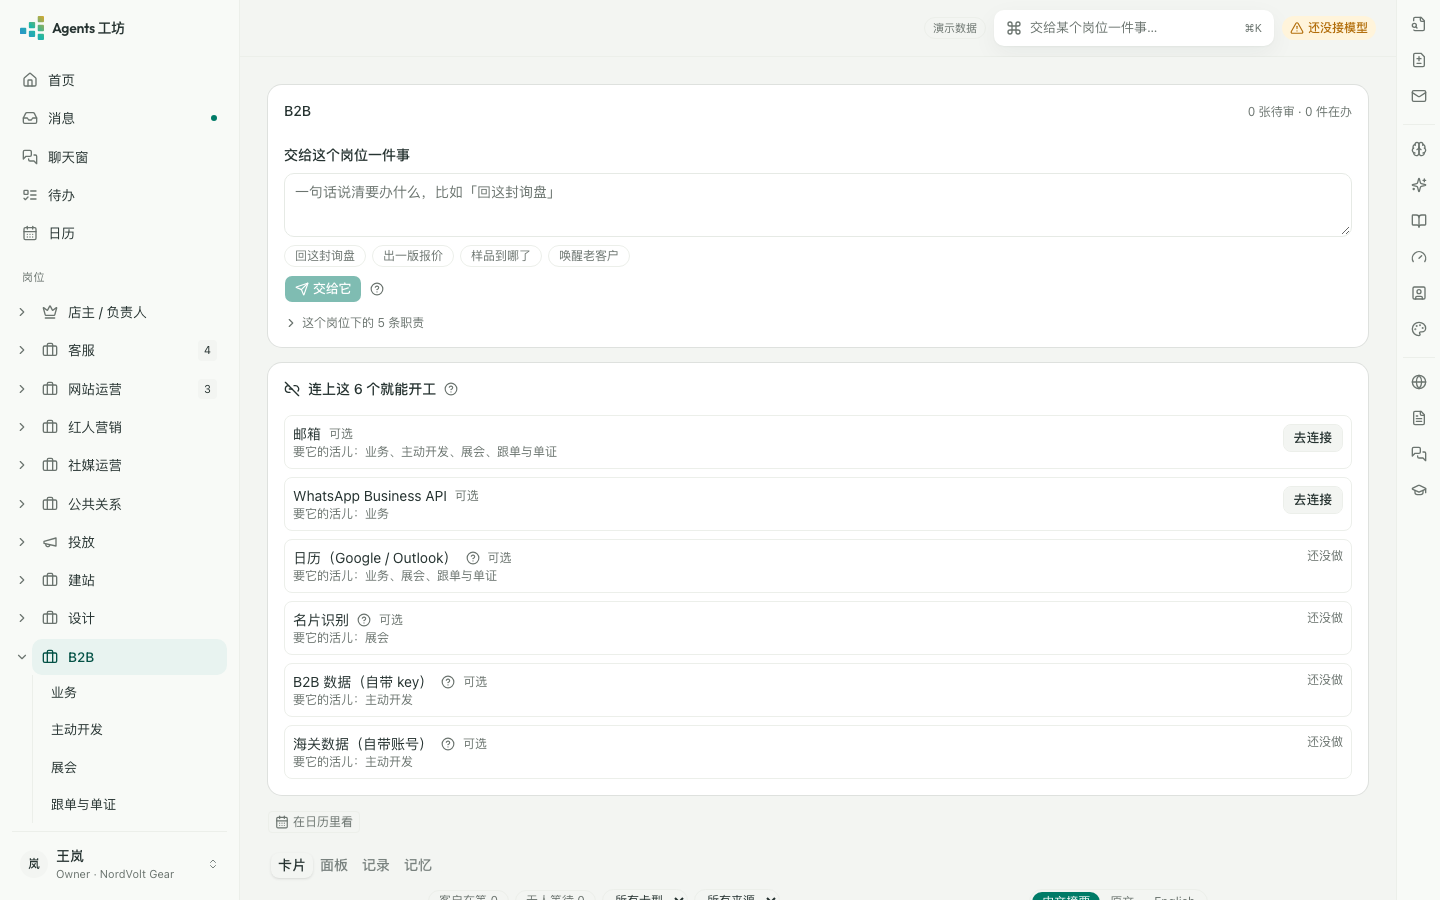
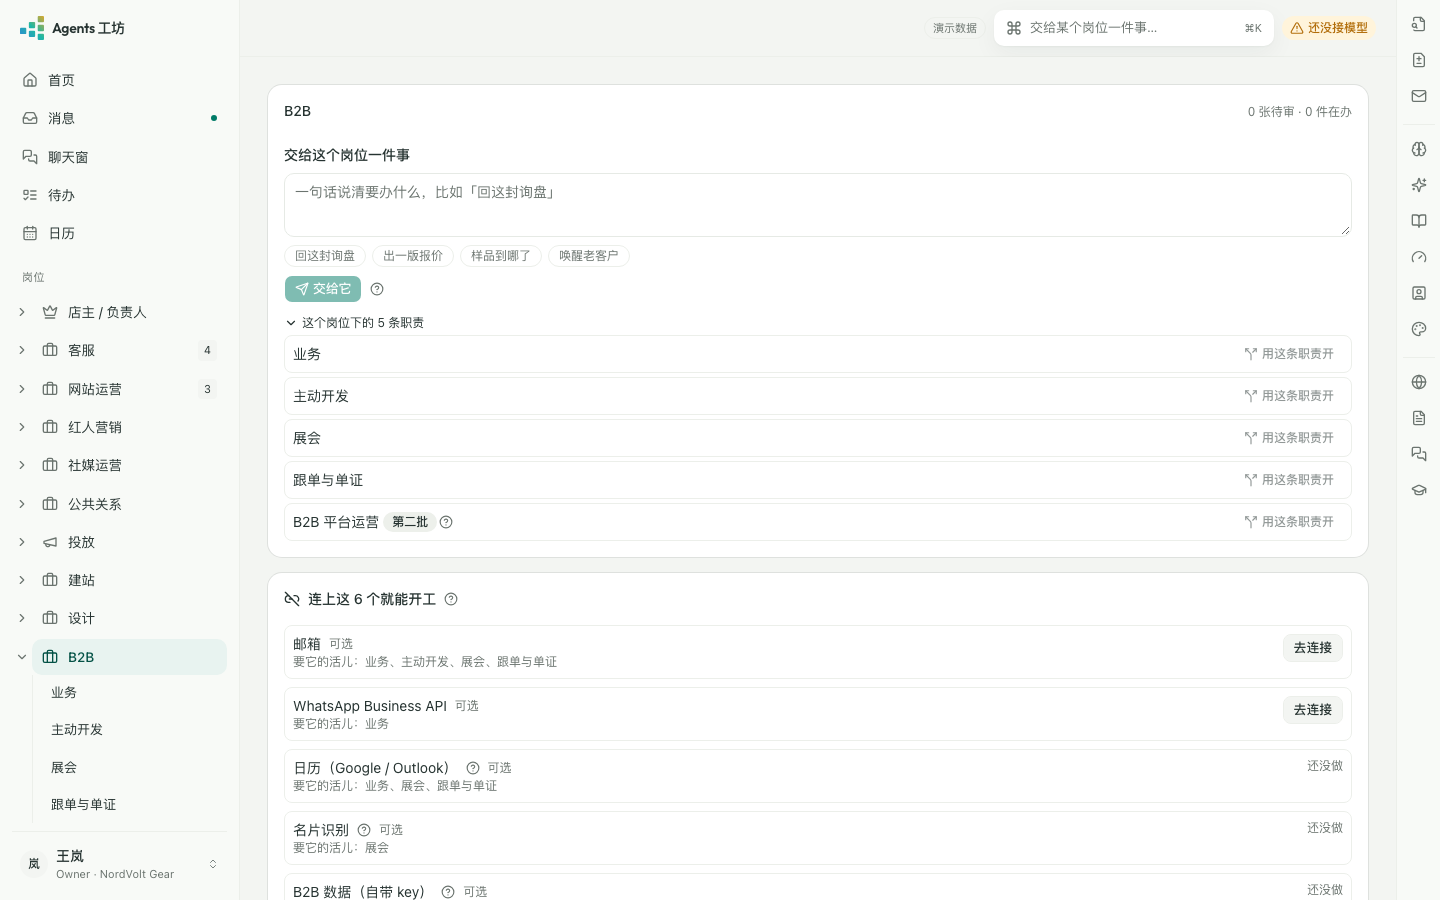
fix(onboarding): WP171 终审——勾岗位不带上第二批的职责，要单独勾（归在那个岗位下）
「仍默认不勾」落到实处：勾「B2B」岗位 = 前四条；平台运营（status: planned）只有单独勾了
才进清单，而且归在 B2B 岗位下、不另起自定义岗位。服务端 expandRoles / 清单与工作台
expandPick 同一条规矩；岗位勾着时第二批那条仍能单独勾。两边各补用例。

diff --git a/apps/workstation/test/onboarding.test.tsx b/apps/workstation/test/onboarding.test.tsx
@@ -33,7 +33,7 @@ import {
 } from '@/components/onboarding/preset-roles'
 import { ProfileForm } from '@/components/onboarding/profile-form'
 import { PurposePicker } from '@/components/onboarding/purpose-picker'
-import { RolePicker } from '@/components/onboarding/role-picker'
+import { expandPick, RolePicker } from '@/components/onboarding/role-picker'
 import type {
   BrandIntakeRun,
   CapabilitySourceSettings,
@@ -1707,13 +1707,11 @@ describe('WP171 第 ③ 步多问一项「B2B」', () => {
 
   it('第二批的职责标「第二批」，说明进问号；仍默认不勾', async () => {
     const user = userEvent.setup()
-    renderWithProviders(
-      <RolePicker
-        positions={WITH_B2B}
-        value={{ position_ids: ['b2b'], role_ids: [], custom_position_name: '' }}
-        onChange={() => {}}
-      />,
-    )
+    const onChange = vi.fn()
+    const picked = { position_ids: ['b2b'], role_ids: [], custom_position_name: '' }
+    // 勾岗位不带上第二批那条（与服务端 expandRoles 同一条规矩）
+    expect(expandPick(picked, WITH_B2B)).toEqual(['b2b.sales', 'b2b.outbound'])
+    renderWithProviders(<RolePicker positions={WITH_B2B} value={picked} onChange={onChange} />)
     const expands = screen.getAllByTestId('onboarding-expand')
     // 岗位按出场顺序摆，B2B 是最后一个
     await user.click(expands[expands.length - 1] as HTMLElement)
@@ -1724,6 +1722,17 @@ describe('WP171 第 ③ 步多问一项「B2B」', () => {
       '第一版还不做',
     )
     expect(WITH_B2B.find((p) => p.id === 'b2b')?.roles.find((r) => r.planned)?.default).toBe(false)
+    // 岗位勾着时别的职责点不动，第二批那条能单独勾（归到这个岗位下，不另起自定义岗位）
+    const toggles = screen.getAllByTestId('onboarding-role')
+    const planned = toggles.find((b) => b.textContent === 'B2B 平台运营') as HTMLElement
+    expect(planned.getAttribute('aria-pressed')).toBe('false')
+    expect(toggles.find((b) => b.textContent === '业务')?.hasAttribute('disabled')).toBe(true)
+    await user.click(planned)
+    expect(onChange).toHaveBeenLastCalledWith({ ...picked, role_ids: ['b2b.marketplace'] })
+    expect(expandPick({ ...picked, role_ids: ['b2b.marketplace'] }, WITH_B2B)).toContain(
+      'b2b.marketplace',
+    )
+    expect(screen.queryByTestId('onboarding-custom')).toBeNull()
   })
 })
 

diff --git a/apps/server/src/onboarding.ts b/apps/server/src/onboarding.ts
@@ -535,6 +535,21 @@ export function createOnboarding(options: OnboardingOptions): OnboardingAssembly
     return kept.length === 0 ? [...roles] : kept
   }
 
+  /**
+   * WP171（Fable 终审）：**勾岗位不带上第二批的职责**（职责定义 `status: planned`）。
+   * 它们在向导里照样列出来（标「第二批」），用户单独勾了才进清单，而且归到那个岗位下，
+   * 不另起一个"自定义岗位"。
+   */
+  function isPlannedRole(id: RoleId): boolean {
+    return roles.roles.get(id)?.status === 'planned'
+  }
+  function tickedRoles<T extends { role: RoleId }>(
+    list: readonly T[],
+    explicit: readonly RoleId[],
+  ): T[] {
+    return wizardRoles(list).filter((r) => !isPlannedRole(r.role) || explicit.includes(r.role))
+  }
+
   function expandRoles(input: OnboardingPlanInput, positions: PositionLike[]): RoleId[] {
     const out: RoleId[] = []
     const seen = new Set<RoleId>()
@@ -548,7 +563,7 @@ export function createOnboarding(options: OnboardingOptions): OnboardingAssembly
     for (const id of input.position_ids) {
       const position = positions.find((p) => p.id === id)
       if (position === undefined) throw new OnboardingError('not_found', `没有这个岗位：${id}`)
-      for (const r of wizardRoles(position.roles)) push(r.role)
+      for (const r of tickedRoles(position.roles, input.role_ids)) push(r.role)
     }
     for (const id of input.role_ids) push(id)
     return out
@@ -623,7 +638,7 @@ export function createOnboarding(options: OnboardingOptions): OnboardingAssembly
     const held = new Set(activeOf(options.owner).map((a) => a.role_id))
     const plannedPositions: OnboardingPositionPlanItem[] = input.position_ids.map((id) => {
       const position = positions.find((p) => p.id === id)
-      const ids = wizardRoles(position?.roles ?? [])
+      const ids = tickedRoles(position?.roles ?? [], input.role_ids)
         .map((r) => r.role)
         .filter((r) => roles.roles.get(r) !== undefined)
       return {

diff --git a/apps/server/test/onboarding.test.ts b/apps/server/test/onboarding.test.ts
@@ -434,6 +434,28 @@ describe('46 §3 岗位与职责 → 清单', () => {
     // 别的岗位一条都不带这个标记
     const others = positions.filter((p) => p.id !== 'b2b').flatMap((p) => p.roles)
     expect(others.some((r) => r.planned === true)).toBe(false)
+
+    // Fable 终审：勾「B2B」岗位不带上第二批那条
+    const plan = await data<
+      PlanView & { positions: { position_id: string; role_ids: string[] }[] }
+    >(await m.call('POST', '/v1/onboarding/plan', { body: { position_ids: ['b2b'] } }))
+    expect(plan.role_ids).toEqual([
+      'b2b.sales',
+      'b2b.outbound',
+      'b2b.exhibition',
+      'b2b.fulfillment',
+    ])
+    // 单独勾了才进，而且归在 B2B 岗位下，不另起一个自定义岗位
+    const withPlanned = await data<
+      PlanView & { positions: { position_id: string; role_ids: string[] }[] }
+    >(
+      await m.call('POST', '/v1/onboarding/plan', {
+        body: { position_ids: ['b2b'], role_ids: ['b2b.marketplace'] },
+      }),
+    )
+    expect(withPlanned.role_ids).toContain('b2b.marketplace')
+    expect(withPlanned.positions.map((p) => p.position_id)).toEqual(['b2b'])
+    expect(withPlanned.positions[0]?.role_ids).toContain('b2b.marketplace')
   })
 
   it('勾岗位 = 该岗位职责全勾；连接与技能去重汇总；模型没接时排第一条', async () => {

diff --git a/apps/workstation/src/components/onboarding/role-picker.tsx b/apps/workstation/src/components/onboarding/role-picker.tsx
@@ -36,7 +36,8 @@ export function expandPick(pick: RolePick, positions: OnboardingPositionView[]):
   }
   for (const id of pick.position_ids) {
     const position = positions.find((p) => p.id === id)
-    for (const r of position?.roles ?? []) push(r.id)
+    // WP171（Fable 终审）：勾岗位不带上第二批的职责——那几条要单独勾
+    for (const r of position?.roles ?? []) if (r.planned !== true) push(r.id)
   }
   for (const id of pick.role_ids) push(id)
   return out
@@ -131,7 +132,8 @@ export function RolePicker({
                         checked={expanded.includes(r.id)}
                         // 岗位勾着的时候它的职责就是全勾——再点单条没有意义，
                         // 要只勾几条得先把岗位那一勾取消掉
-                        disabled={value.position_ids.includes(p.id)}
+                        // 第二批的那条不跟岗位走，岗位勾着也能单独勾
+                        disabled={value.position_ids.includes(p.id) && r.planned !== true}
                         testId="onboarding-role"
                         onToggle={() => {
                           toggleRole(r.id)
